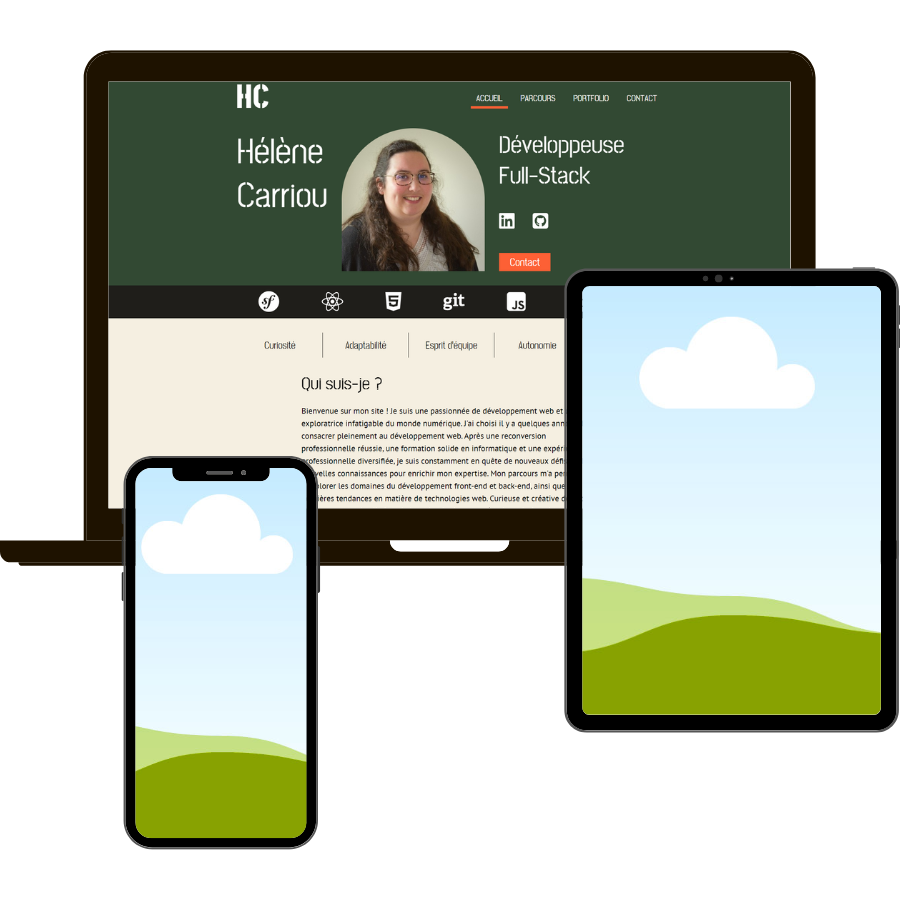
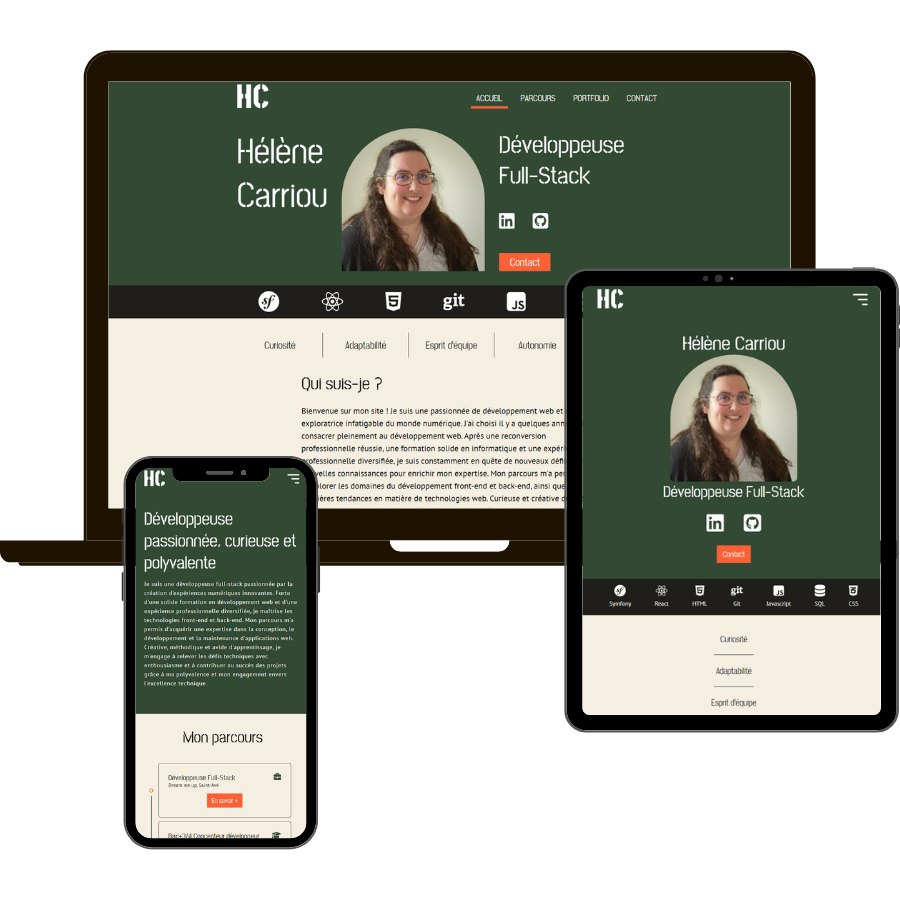
small responsive improvements

Changed region(s): [[0.6222, 0.3111, 0.9956, 0.8089], [0.1244, 0.4978, 0.3422, 0.9333]]

diff --git a/src/pages/Curriculum/Curriculum.jsx b/src/pages/Curriculum/Curriculum.jsx
@@ -45,15 +45,13 @@ const StyledImg = styled('img')`
     border-top-right-radius: 200px;
     border-bottom-left-radius: 10px;
     border-bottom-right-radius: 10px;
-    width: 200px;
-    height: 250px;
+    display: none;
+    height: 400px;
+    width: 300px;
     padding-top: 20px;
     object-fit: cover;
-    @media screen and ${breakpoints.tablet} {
-        height: 400px;
-        width: 300px;
-    }
     @media screen and ${breakpoints.laptop} {
+        display: block;
         padding: 0;
     }
     @media screen and ${breakpoints.desktop} {

diff --git a/src/components/CurriculumPage/JobTimeline/JobTimeline.jsx b/src/components/CurriculumPage/JobTimeline/JobTimeline.jsx
@@ -15,9 +15,9 @@ import { breakpoints } from '../../../utils/css-breakpoints'
 
 const StyledTimelineItem = styled(TimelineItem)`
     &&.MuiTimelineItem-positionRight::before {
-        flex: 0;
-        @media screen and ${breakpoints.tablet} {
-            flex: 1;
+        @media screen and (max-width: 768px) {
+            flex: 0;
+            padding: 0;
         }
     }
 `
